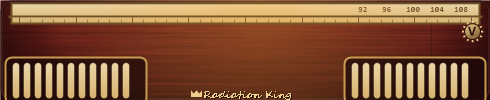
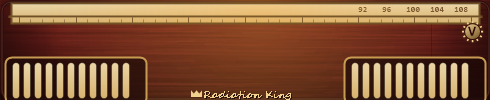
Seal the skin edges, and document that the window is a rectangle
Backgrounds drawn with antialiasing on end up with their outermost row and
column at roughly half alpha, because the fill's own edge is antialiased.
RadioSure composites that against its light window background, so a near-black
pixel arrives on screen as mid grey - the thin pale line around the whole
player that every skin built this way has. Radiation King had it on both
window states; the edges are now opaque, with the colours untouched.

The format notes gain the answer to the obvious follow-up: no, a skin cannot
be cut to the shape of its artwork. Alpha 0 composites to white rather than to
the desktop, Rounded is a corner radius and not a mask, and the one
Transparent field belongs to List. Tested rather than assumed. Whatever
surrounds your artwork is part of the skin and has to be designed.

Changed region(s): [[0.0, 0.0, 1.0, 0.03]]

diff --git a/SKIN-AND-RSD-FORMAT.md b/SKIN-AND-RSD-FORMAT.md
@@ -197,3 +197,23 @@ Useful specifics:
 - Keep generator scripts pure ASCII, or save them UTF-8 **with** BOM. Windows
   PowerShell reads BOM-less scripts as the system code page and mangles any
   non-ASCII string literals.
+
+## The window is always a rectangle
+
+A skin cannot be a shaped window. If you were hoping to cut a player out to the
+silhouette of its artwork — a radio, a headstone, anything with a profile — it
+is not available, and it is worth knowing before you draw for it.
+
+- **Alpha in the background PNG is not honoured as window transparency.**
+  Pixels at alpha 0 composite to **white**, not to the desktop. Tested by
+  building a skin whose background was 16% fully transparent: the transparent
+  region rendered as a solid white ground filling the window rectangle.
+- **`<Rounded>` is a corner radius, not a mask.** It rounds the corners of the
+  rectangle and nothing more. There is no path, region or mask field.
+- **`<Transparent>` exists but belongs to `<List>`**, not to `<Window>` — it
+  controls the station list's background, not the window shape.
+
+The practical consequence: whatever sits around your artwork is part of the
+skin and has to be *designed*, not wished away. Give it something deliberate —
+a ground, a shadow, a surround that reads as intentional — because the rectangle
+is going to be visible no matter what you put in the alpha channel.
